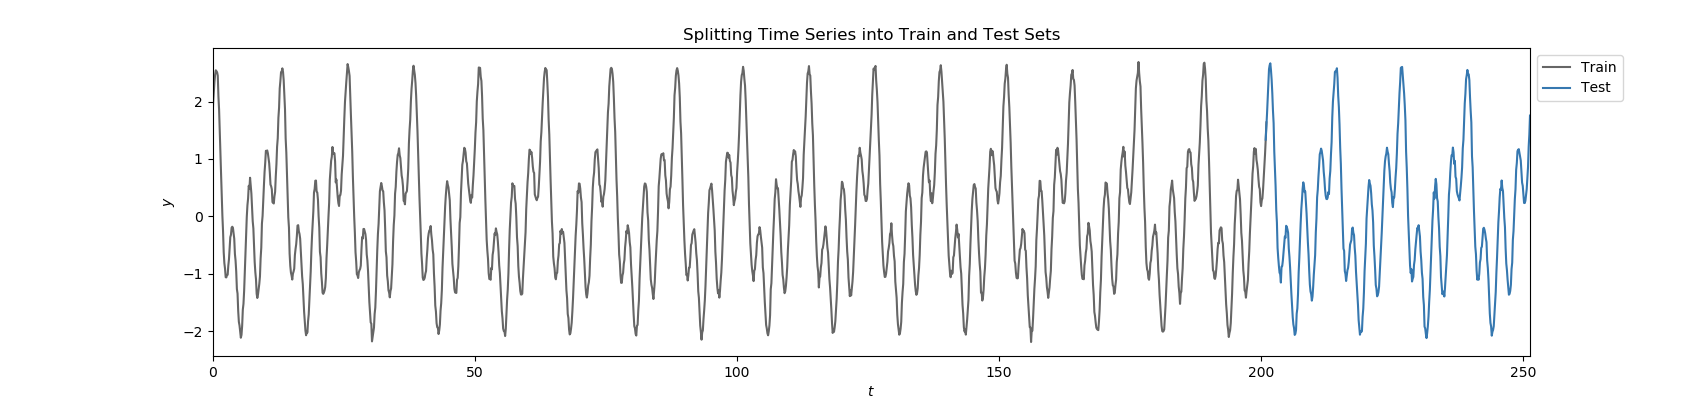
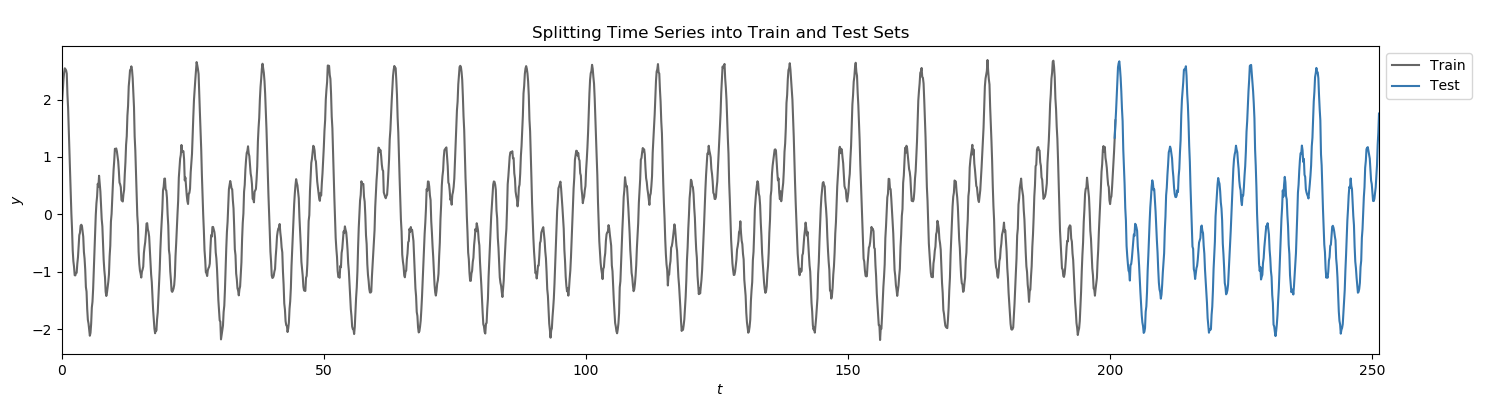
sec 2 fig

Changed region(s): [[0.031, 0.0603, 0.9906, 0.8442], [0.1238, 0.8744, 0.9287, 0.9648], [0.031, 0.7538, 0.0619, 0.8442]]

diff --git a/README.md b/README.md
@@ -30,7 +30,7 @@ In this project, we will build a LSTM encoder-decoder to make sequence-to-sequen
 For our time series, we consider a noisy sinusoidal function. We treat the first 80 percent of the time series as the training set and the last 20 percent as the test set. The train and test data is shown below. 
 
 <p align="center">
-  <img src="code/plots/train_test_split.png" width="1000">
+  <img src="code/plots/train_test_split.png" width="900">
   </p>
 
 
